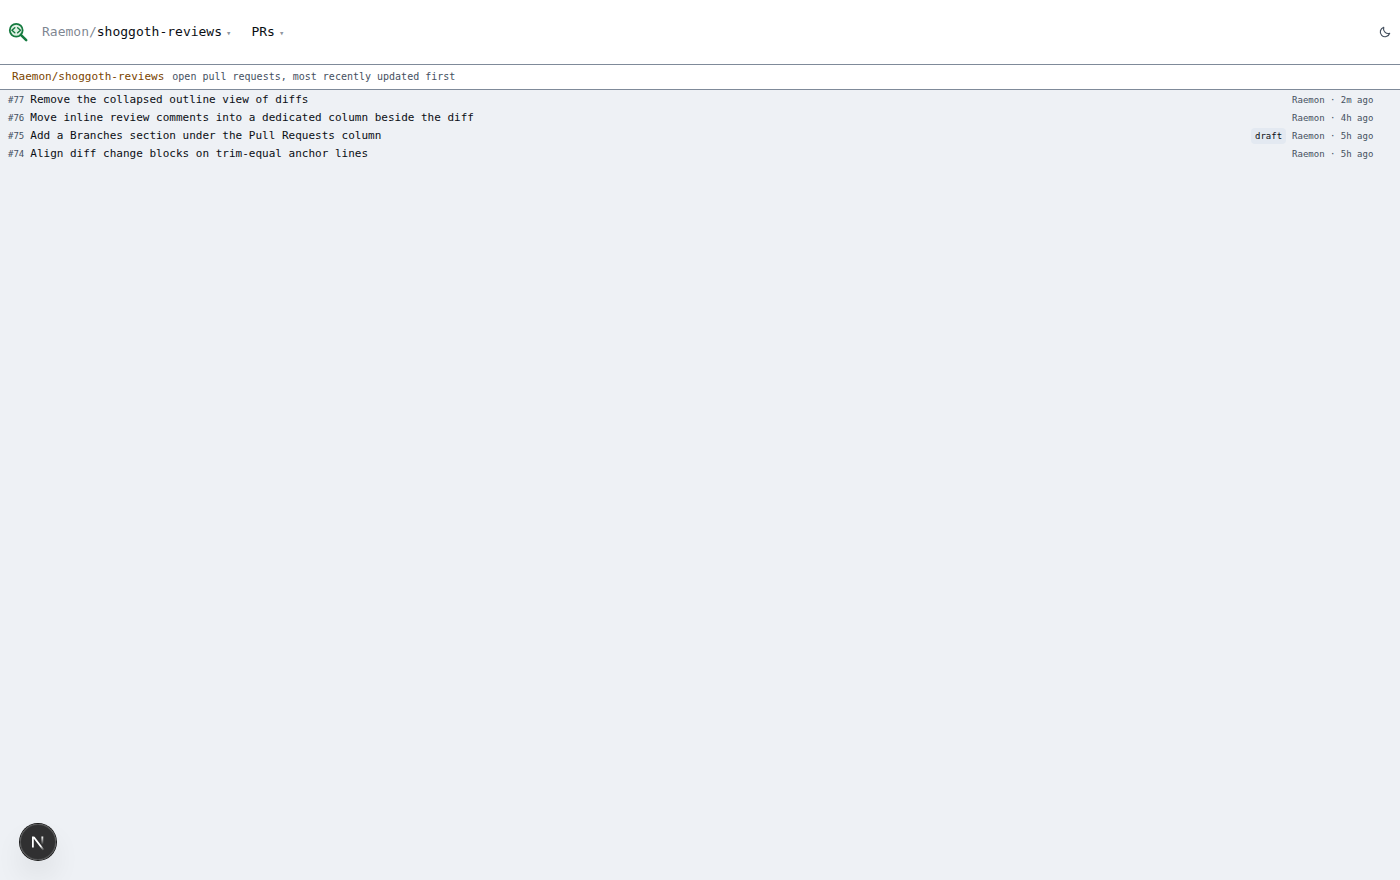
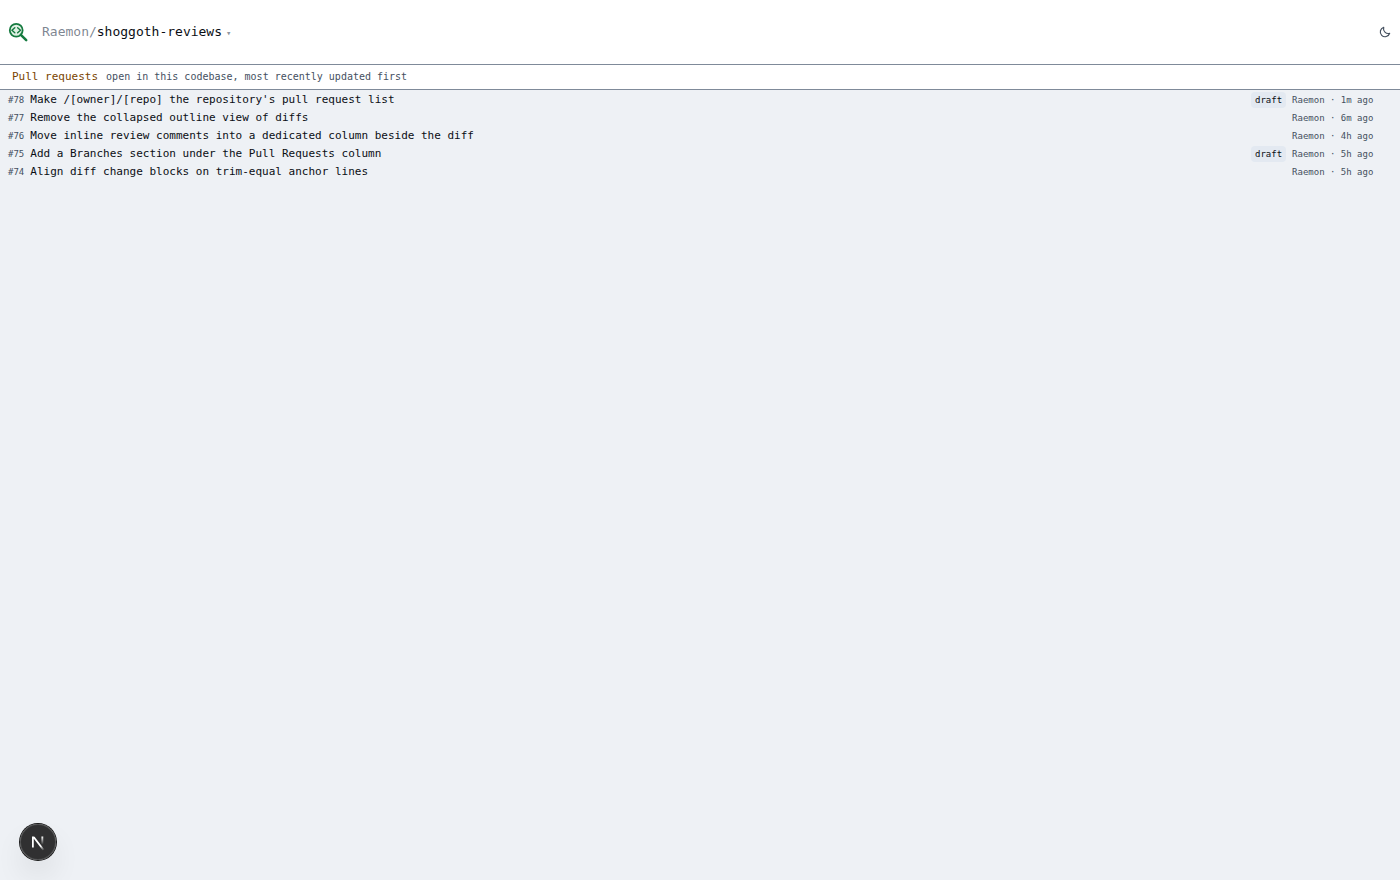
Fold review findings into the pull request list page
The pull list body owns its own scroller, so the shell no longer wraps it
in a second one; the page heading drops the repo name and the header
drops its PRs dropdown, both of which the page already shows.
PullRequestList moves out of the header-dropdown file into its own,
mirroring AllPullRequestList.

Also removes what the surface deletion stranded: the tarball and blob
immutable-cache patterns, githubBytes's unused accept default, two
unexported-elsewhere HoverCard types, the meter color tokens, and
screenshots of the deleted views.

Claude-Session: https://claude.ai/code/session_01NaJWersCH4NTbDiVqFKF7K

Changed region(s): [[0.0, 0.0614, 0.3379, 0.2148], [0.9214, 0.1841, 0.9829, 0.2148], [0.8907, 0.1534, 0.9214, 0.1841]]

diff --git a/src/features/pull-requests/PullRequestMenu.tsx b/src/features/pull-requests/PullRequestMenu.tsx
@@ -1,58 +1,13 @@
 'use client';
 
-import { usePathname } from 'next/navigation';
-import type { PullRequestSummary } from './pullRequests';
+import { PullRequestList } from './PullRequestList';
 import { HeaderMenu } from '@/features/codebases/HeaderMenu';
-import { timeAgo } from '@/features/surface-ui/timeAgo';
-import { PullListRow } from './PullListRow';
-import { useStandingRepoPulls } from './pullActionStore';
-import { pullRoute, repoPullsPath } from './pullPaths';
 import type { RepoRef } from '@/features/sources/parseRepoLink';
-import { useGithubToken, useStoreReady } from '@/features/sources/sourceStore';
-import { useCachedJson } from '@/features/sources/useCachedJson';
 
 export function PullRequestMenu({ repo }: { repo: RepoRef }) {
   return (
     <HeaderMenu label="PRs" width="w-[26rem]">
       {() => <PullRequestList repo={repo} />}
     </HeaderMenu>
-  );
-}
-
-export function PullRequestList({ repo }: { repo: RepoRef }) {
-  const ready = useStoreReady();
-  const token = useGithubToken();
-  const pathname = usePathname();
-  const { data: pulls, error } = useCachedJson<PullRequestSummary[]>(repoPullsPath(repo.owner, repo.name), token, ready);
-  const standingPulls = useStandingRepoPulls(repo.owner, repo.name, pulls);
-
-  if (!pulls) {
-    if (error) return <p className="px-2 py-1 text-[11px] leading-4 text-error-ink">{error}</p>;
-    return <p className="px-2 py-1 text-[11px] leading-4 text-ink-dim">Loading…</p>;
-  }
-  if (standingPulls.length === 0) return <p className="px-2 py-1 text-[11px] leading-4 text-ink-dim">No open pull requests.</p>;
-
-  return (
-    <nav className="min-h-0 flex-1 overflow-auto py-[1px]">
-      {error && <p className="px-2 py-1 text-[11px] leading-4 text-error-ink">{error}</p>}
-      {standingPulls.map((pull) => {
-        const href = pullRoute(repo.owner, repo.name, pull.number);
-        return (
-          <PullListRow
-            key={pull.number}
-            target={{ owner: repo.owner, repo: repo.name, number: pull.number }}
-            href={href}
-            current={pathname === href}
-          >
-            <span className="shrink-0 text-[9px] text-ink-dim">#{pull.number}</span>
-            <span className="min-w-0 flex-1 truncate">{pull.title}</span>
-            {pull.draft && <span className="shrink-0 rounded bg-btn px-1 text-[9px]">draft</span>}
-            <span className="shrink-0 text-[9px] text-ink-dim">
-              {pull.author} · {timeAgo(pull.updatedAt)}
-            </span>
-          </PullListRow>
-        );
-      })}
-    </nav>
   );
 }

diff --git a/src/features/pull-requests/PullRequestList.tsx b/src/features/pull-requests/PullRequestList.tsx
@@ -1,0 +1,49 @@
+'use client';
+
+import { usePathname } from 'next/navigation';
+import type { PullRequestSummary } from './pullRequests';
+import { PullListRow } from './PullListRow';
+import { useStandingRepoPulls } from './pullActionStore';
+import { pullRoute, repoPullsPath } from './pullPaths';
+import type { RepoRef } from '@/features/sources/parseRepoLink';
+import { useGithubToken, useStoreReady } from '@/features/sources/sourceStore';
+import { useCachedJson } from '@/features/sources/useCachedJson';
+import { timeAgo } from '@/features/surface-ui/timeAgo';
+
+export function PullRequestList({ repo }: { repo: RepoRef }) {
+  const ready = useStoreReady();
+  const token = useGithubToken();
+  const pathname = usePathname();
+  const { data: pulls, error } = useCachedJson<PullRequestSummary[]>(repoPullsPath(repo.owner, repo.name), token, ready);
+  const standingPulls = useStandingRepoPulls(repo.owner, repo.name, pulls);
+
+  if (!pulls) {
+    if (error) return <p className="px-2 py-1 text-[11px] leading-4 text-error-ink">{error}</p>;
+    return <p className="px-2 py-1 text-[11px] leading-4 text-ink-dim">Loading…</p>;
+  }
+  if (standingPulls.length === 0) return <p className="px-2 py-1 text-[11px] leading-4 text-ink-dim">No open pull requests.</p>;
+
+  return (
+    <nav className="min-h-0 flex-1 overflow-auto py-[1px]">
+      {error && <p className="px-2 py-1 text-[11px] leading-4 text-error-ink">{error}</p>}
+      {standingPulls.map((pull) => {
+        const href = pullRoute(repo.owner, repo.name, pull.number);
+        return (
+          <PullListRow
+            key={pull.number}
+            target={{ owner: repo.owner, repo: repo.name, number: pull.number }}
+            href={href}
+            current={pathname === href}
+          >
+            <span className="shrink-0 text-[9px] text-ink-dim">#{pull.number}</span>
+            <span className="min-w-0 flex-1 truncate">{pull.title}</span>
+            {pull.draft && <span className="shrink-0 rounded bg-btn px-1 text-[9px]">draft</span>}
+            <span className="shrink-0 text-[9px] text-ink-dim">
+              {pull.author} · {timeAgo(pull.updatedAt)}
+            </span>
+          </PullListRow>
+        );
+      })}
+    </nav>
+  );
+}

diff --git a/src/app/globals.css b/src/app/globals.css
@@ -38,13 +38,6 @@
   --color-add-bg: var(--add-bg);
   --color-add-emph: var(--add-emph);
   --color-add-ink: var(--add-ink);
-
-  --color-meter-1: var(--meter-1);
-  --color-meter-2: var(--meter-2);
-  --color-meter-3: var(--meter-3);
-  --color-meter-4: var(--meter-4);
-  --color-meter-5: var(--meter-5);
-  --color-meter-6: var(--meter-6);
 }
 
 @utility shadow-card {
@@ -87,12 +80,6 @@
   --add-emph: #b9e3c0;
   --add-ink: #14591f;
 
-  --meter-1: #3d2200;
-  --meter-2: #6b3c00;
-  --meter-3: #98600a;
-  --meter-4: #b58538;
-  --meter-5: #c9a463;
-  --meter-6: #d9be8c;
 
   --shadow-card: 0 0 0 1px rgba(10, 14, 20, 0.12), 0 8px 28px rgba(10, 14, 20, 0.24);
   color-scheme: light;
@@ -135,12 +122,6 @@
     --add-emph: #2f5636;
     --add-ink: #8ee29a;
 
-    --meter-1: #ffcf7a;
-    --meter-2: #f0b055;
-    --meter-3: #d1913c;
-    --meter-4: #ad742e;
-    --meter-5: #8a5a26;
-    --meter-6: #6a4520;
 
     --shadow-card: 0 0 0 1px rgba(248, 244, 236, 0.14), 0 12px 34px rgba(0, 0, 0, 0.8);
     color-scheme: dark;
@@ -209,12 +190,6 @@
   --add-emph: #2f5636;
   --add-ink: #8ee29a;
 
-  --meter-1: #ffcf7a;
-  --meter-2: #f0b055;
-  --meter-3: #d1913c;
-  --meter-4: #ad742e;
-  --meter-5: #8a5a26;
-  --meter-6: #6a4520;
 
   --shadow-card: 0 0 0 1px rgba(248, 244, 236, 0.14), 0 12px 34px rgba(0, 0, 0, 0.8);
   color-scheme: dark;

diff --git a/src/features/pull-requests/PullsSurface.tsx b/src/features/pull-requests/PullsSurface.tsx
@@ -2,7 +2,7 @@
 
 import type { ReactNode } from 'react';
 import { AllPullRequestList } from './AllPullRequestList';
-import { PullRequestList } from './PullRequestMenu';
+import { PullRequestList } from './PullRequestList';
 
 export function AllPullsSurface() {
   return (
@@ -14,7 +14,7 @@ export function AllPullsSurface() {
 
 export function RepoPullsSurface({ owner, repo }: { owner: string; repo: string }) {
   return (
-    <PullsSurface heading={`${owner}/${repo}`} note="open pull requests, most recently updated first">
+    <PullsSurface heading="Pull requests" note="open in this codebase, most recently updated first">
       <PullRequestList repo={{ owner, name: repo }} />
     </PullsSurface>
   );
@@ -27,7 +27,7 @@ function PullsSurface({ heading, note, children }: { heading: string; note: stri
         <h1 className="text-[11px] leading-4 text-accent">{heading}</h1>
         <p className="text-[10px] text-ink-dim">{note}</p>
       </div>
-      <div className="min-h-0 flex-1 overflow-auto">{children}</div>
+      {children}
     </div>
   );
 }

diff --git a/src/features/codebases/githubRequest.ts b/src/features/codebases/githubRequest.ts
@@ -12,7 +12,7 @@ export class GithubRequestError extends Error {
 
 const ACCEPT = 'application/vnd.github+json';
 const DEFAULT_FRESHNESS_MS = 30_000;
-const IMMUTABLE_PATTERNS = [/\/commits\/[0-9a-f]{7,40}$/, /\/(?:tarball|zipball)\/[0-9a-f]{7,40}$/, /\/git\/blobs\//];
+const IMMUTABLE_PATTERNS = [/\/commits\/[0-9a-f]{7,40}$/];
 const STALE_ON_STATUS = [403, 408, 429, 500, 502, 503, 504];
 
 const inFlight = new Map<string, Promise<CachedResponse>>();
@@ -21,7 +21,7 @@ export async function githubJson<T>(url: string, fresh = false): Promise<T> {
   return JSON.parse(decodeBody(await cachedResponse(url, ACCEPT, fresh)).toString('utf8')) as T;
 }
 
-export async function githubBytes(url: string, accept = ACCEPT): Promise<Uint8Array> {
+export async function githubBytes(url: string, accept: string): Promise<Uint8Array> {
   return new Uint8Array(decodeBody(await cachedResponse(url, accept)));
 }
 

diff --git a/src/features/codebases/CodebaseHeader.tsx b/src/features/codebases/CodebaseHeader.tsx
@@ -24,13 +24,14 @@ export function CodebaseHeader() {
   const pathname = usePathname();
   const reading = repoBeingRead(pathname);
   const pullNumber = pullBeingRead(pathname);
+  const readingPullList = reading !== null && pathname === repoRoute(reading.owner, reading.name);
   return (
     <header className="flex items-center gap-2 border-b border-panel-edge bg-panel px-2 py-5">
       <Link href="/" aria-label="reposcope home" className="shrink-0">
         <ScopeMark size={20} title="reposcope home" />
       </Link>
       <CodebaseMenu reading={reading} />
-      {reading &&
+      {reading && !readingPullList &&
         (pullNumber === null ? <PullRequestMenu repo={reading} /> : <CurrentPullTitle repo={reading} number={pullNumber} />)}
       <div className="ml-auto flex shrink-0 items-center gap-2">
         <GithubSignedOutNotice />

diff --git a/src/features/pull-requests/PullListColumn.tsx b/src/features/pull-requests/PullListColumn.tsx
@@ -5,7 +5,7 @@ import type { ReactNode } from 'react';
 import { AllPullRequestList } from './AllPullRequestList';
 import { ColumnPreview, type PreviewToken } from './ColumnPreview';
 import { useRegisterColumn } from './columnNav';
-import { PullRequestList } from './PullRequestMenu';
+import { PullRequestList } from './PullRequestList';
 import { ResizableColumn, type ColumnSize } from './ResizableColumn';
 import { useStandingPulls, useStandingRepoPulls } from './pullActionStore';
 import { allPullsRoute, pullRoute, repoPullsPath } from './pullPaths';

diff --git a/src/features/surface-ui/HoverCard.tsx b/src/features/surface-ui/HoverCard.tsx
@@ -11,10 +11,10 @@ interface TipPosition {
   top: number;
 }
 
-export type TipPlacement = 'side' | 'below';
+type TipPlacement = 'side' | 'below';
 
 const CARD_WIDTHS = { default: 'max-w-[min(34rem,calc(100vw-1rem))]', wide: 'max-w-[min(56rem,calc(100vw-1rem))]' };
-export type TipWidth = keyof typeof CARD_WIDTHS;
+type TipWidth = keyof typeof CARD_WIDTHS;
 const POPPER_BASE = 'fixed z-50 w-max overflow-hidden';
 const CARD_POPPER = 'min-w-64 rounded-md bg-tip shadow-card';
 const TOOLTIP_POPPER = 'bg-black/85 text-white pointer-events-none';

diff --git a/src/app/layout.tsx b/src/app/layout.tsx
@@ -5,7 +5,7 @@ import { ThemeScript } from '@/features/theme/ThemeScript';
 import './globals.css';
 
 export const metadata: Metadata = {
-  title: 'reposcope — codebase viewer',
+  title: 'reposcope — pull request viewer',
   description: 'Read the open pull requests of any repository straight from GitHub.',
 };
 

diff --git a/AGENTS.md b/AGENTS.md
@@ -12,5 +12,5 @@ Standard commands live in `CLAUDE.md` and `package.json` (dev on port 2111,
   set `GITHUB_CLIENT_ID`/`GITHUB_CLIENT_SECRET` only if testing the OAuth
   connect flow.
 - GitHub responses are cached to disk (`REPOSCOPE_CACHE_DIR`, defaulting to a
-  temp dir). First load of a large repo can take tens of seconds while it
-  fetches and parses; later loads hit the cache.
+  temp dir) and revalidated with ETags, so repeated loads of the same pull
+  request are cheap.
